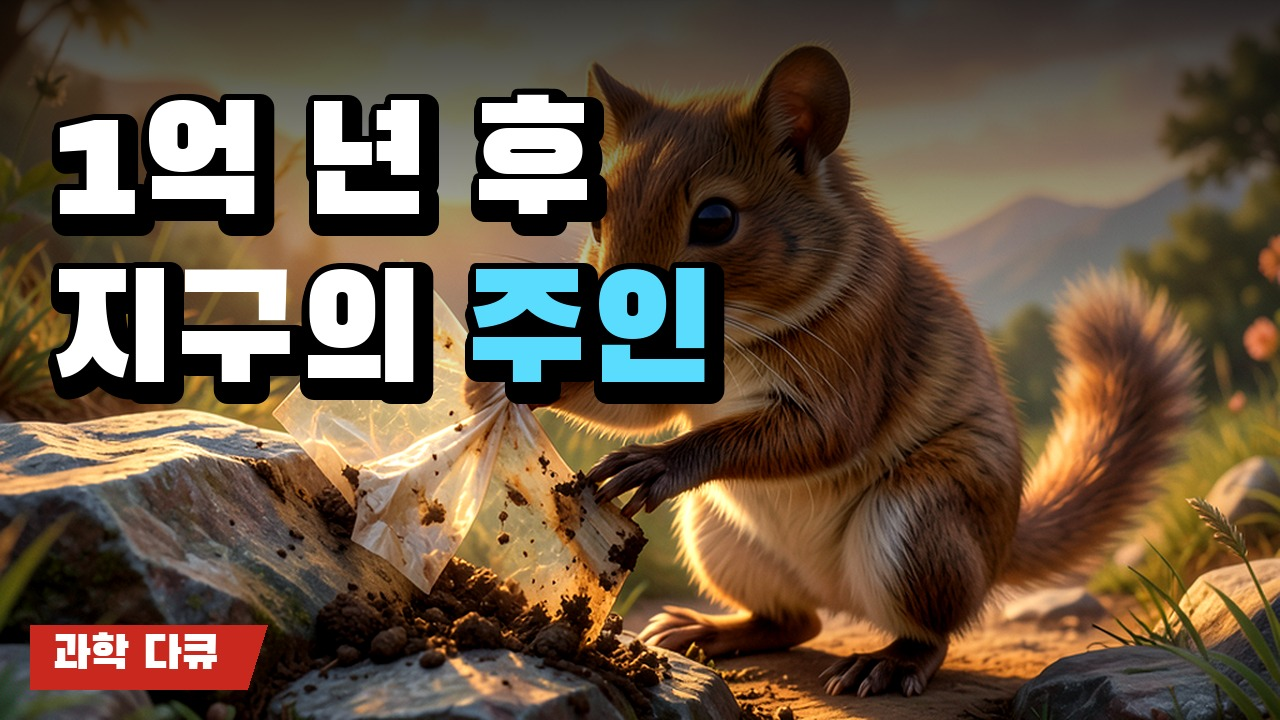
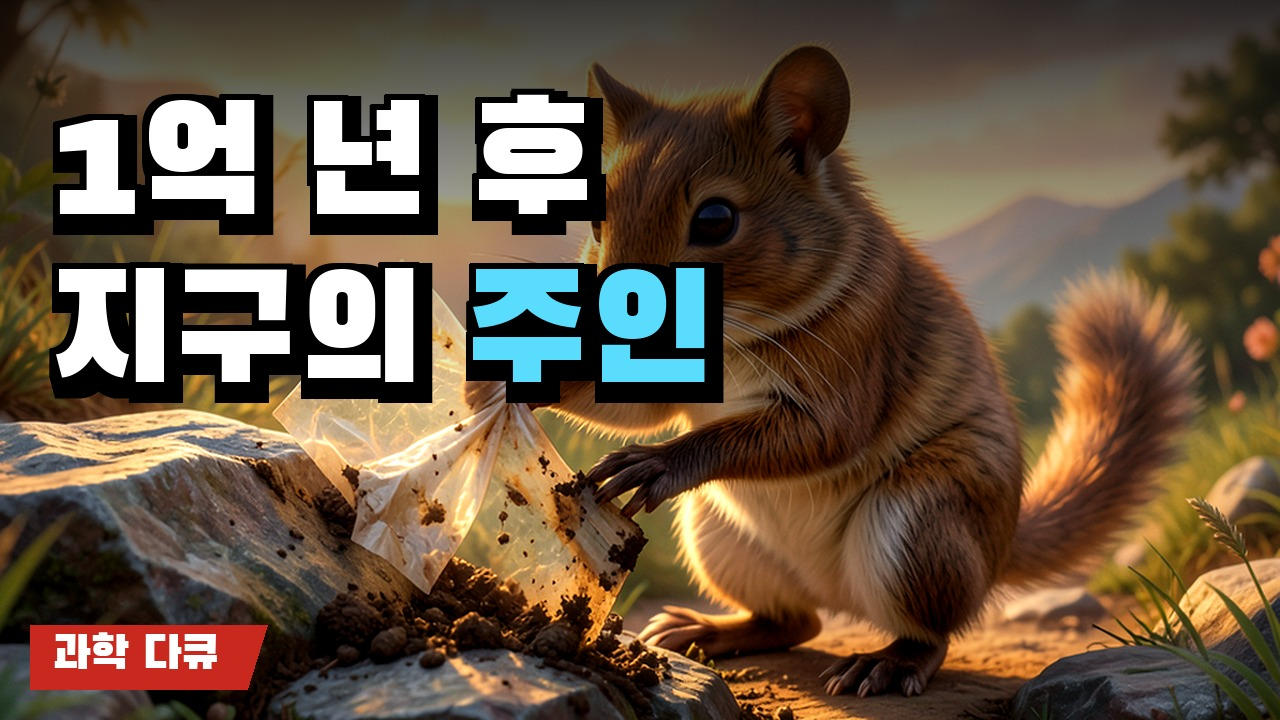
썸네일 글씨 테두리: 글자 모양을 넓혀서 그림 ('구'의 ㄱ 윗변 테두리가 빠지던 것) + 썸네일 다시 만듦
Claude-Session: https://claude.ai/code/session_01UhZ9X76NsY5TmkKLghY2bs

Changed region(s): [[0.125, 0.3667, 0.25, 0.4583], [0.0625, 0.5194, 0.0938, 0.55]]

diff --git a/연재/서작가/썸네일_만들기.py b/연재/서작가/썸네일_만들기.py
@@ -6,6 +6,21 @@ import os
 import sys
 from PIL import Image, ImageDraw, ImageEnhance, ImageFont
 
+
+def outlined(im, xy, text, font, fill, edge, width, shadow=None):
+    """글씨 + 테두리(+그림자). 테두리는 글자 모양을 넓혀서 그림 — PIL stroke_width 는 이 글꼴에서 'ㄱ' 윗변 테두리가 빠지는 일이 있음"""
+    from PIL import ImageFilter
+    w, h = int(font.getlength(text)) + 4 * width + 40, int(font.size * 1.6) + 4 * width
+    m = Image.new("L", (w, h), 0)
+    ImageDraw.Draw(m).text((2 * width, 2 * width), text, font=font, fill=255)
+    ring = m.filter(ImageFilter.MaxFilter(2 * width + 1))
+    x, y = int(round(xy[0])) - 2 * width, int(round(xy[1])) - 2 * width
+    if shadow:
+        sw, (dx, dy) = shadow
+        im.paste((0, 0, 0), (x + dx, y + dy), m.filter(ImageFilter.MaxFilter(2 * sw + 1)))
+    im.paste(edge, (x, y), ring)
+    im.paste(fill, (x, y), m)
+
 src, out, l1, l2, hi, pos = sys.argv[1:7]
 badge = sys.argv[7] if len(sys.argv) > 7 else "엄마의 텃밭 1화"
 kind = sys.argv[8] if len(sys.argv) > 8 else "sans"
@@ -43,8 +58,7 @@ for k, ln in enumerate(lines):
     for word in ln.split(" "):
         col = HI if hi and hi in word else (255, 255, 255)
         w = d.textlength(word, font=f)
-        d.text((x + 5, y + 7), word, font=f, fill=(0, 0, 0), stroke_width=12, stroke_fill=(0, 0, 0))    # 그림자
-        d.text((x, y), word, font=f, fill=col, stroke_width=6, stroke_fill=(25, 12, 6))
+        outlined(im, (x, y), word, f, col, (25, 12, 6), 6, shadow=(11, (5, 7)))    # 테두리 + 그림자
         x += w + size * 0.26
 fb = ImageFont.truetype(os.path.join(HERE, "..", "..", "fonts", "BlackHanSans-Regular.ttf"), 44)   # 회차 띠
 bw = d.textlength(badge, font=fb) + 48

diff --git a/연재/두번째새벽/썸네일_만들기.py b/연재/두번째새벽/썸네일_만들기.py
@@ -2,6 +2,21 @@
 import sys
 from PIL import Image, ImageDraw, ImageFont, ImageEnhance, ImageFilter
 
+
+def outlined(im, xy, text, font, fill, edge, width, shadow=None):
+    """글씨 + 테두리(+그림자). 테두리는 글자 모양을 넓혀서 그림 — PIL stroke_width 는 이 글꼴에서 'ㄱ' 윗변 테두리가 빠지는 일이 있음"""
+    from PIL import ImageFilter
+    w, h = int(font.getlength(text)) + 4 * width + 40, int(font.size * 1.6) + 4 * width
+    m = Image.new("L", (w, h), 0)
+    ImageDraw.Draw(m).text((2 * width, 2 * width), text, font=font, fill=255)
+    ring = m.filter(ImageFilter.MaxFilter(2 * width + 1))
+    x, y = int(round(xy[0])) - 2 * width, int(round(xy[1])) - 2 * width
+    if shadow:
+        sw, (dx, dy) = shadow
+        im.paste((0, 0, 0), (x + dx, y + dy), m.filter(ImageFilter.MaxFilter(2 * sw + 1)))
+    im.paste(edge, (x, y), ring)
+    im.paste(fill, (x, y), m)
+
 src, out, l1, l2, hi, pos = sys.argv[1:7]
 badge = sys.argv[7] if len(sys.argv) > 7 else "두 번째 새벽 1화"
 F = "/home/user/youtubeshot/fonts/BlackHanSans-Regular.ttf"
@@ -27,9 +42,7 @@ for k, ln in enumerate(lines):
     for word in ln.split(" "):
         col = (90, 220, 255) if hi and hi in word else (255, 255, 255)
         w = d.textlength(word, font=f)
-        for r in (14, 9):    # 두꺼운 검은 테두리 + 그림자
-            d.text((x + 6, y + 8), word, font=f, fill=(0, 0, 0), stroke_width=r, stroke_fill=(0, 0, 0))
-        d.text((x, y), word, font=f, fill=col, stroke_width=6, stroke_fill=(0, 0, 0))
+        outlined(im, (x, y), word, f, col, (0, 0, 0), 6, shadow=(13, (6, 8)))    # 두꺼운 검은 테두리 + 그림자
         x += w + size * 0.28
 # 회차 띠
 fb = ImageFont.truetype(F, 46)
